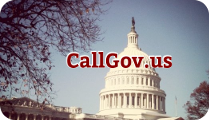
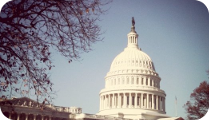
image

Changed region(s): [[0.3158, 0.425, 0.8325, 0.575]]

diff --git a/app/assets/stylesheets/application.scss b/app/assets/stylesheets/application.scss
@@ -54,6 +54,8 @@ body { font-family: 'Open Sans', sans-serif; }
 .navbar-brand, h1, h2, h3, h4, h5, .display-name { font-family: Bitter, serif; }
 
 h1.title { font-size: 2em; color: #fff; float: right; padding: 0; margin-top: .1em; }
+h1 a { font-size: 2em; position: absolute; top: 10px; left: 10px; }
+h1 img { position: relative; width: 100%; }
 
 .row h3 { margin-top: 0; }
 
